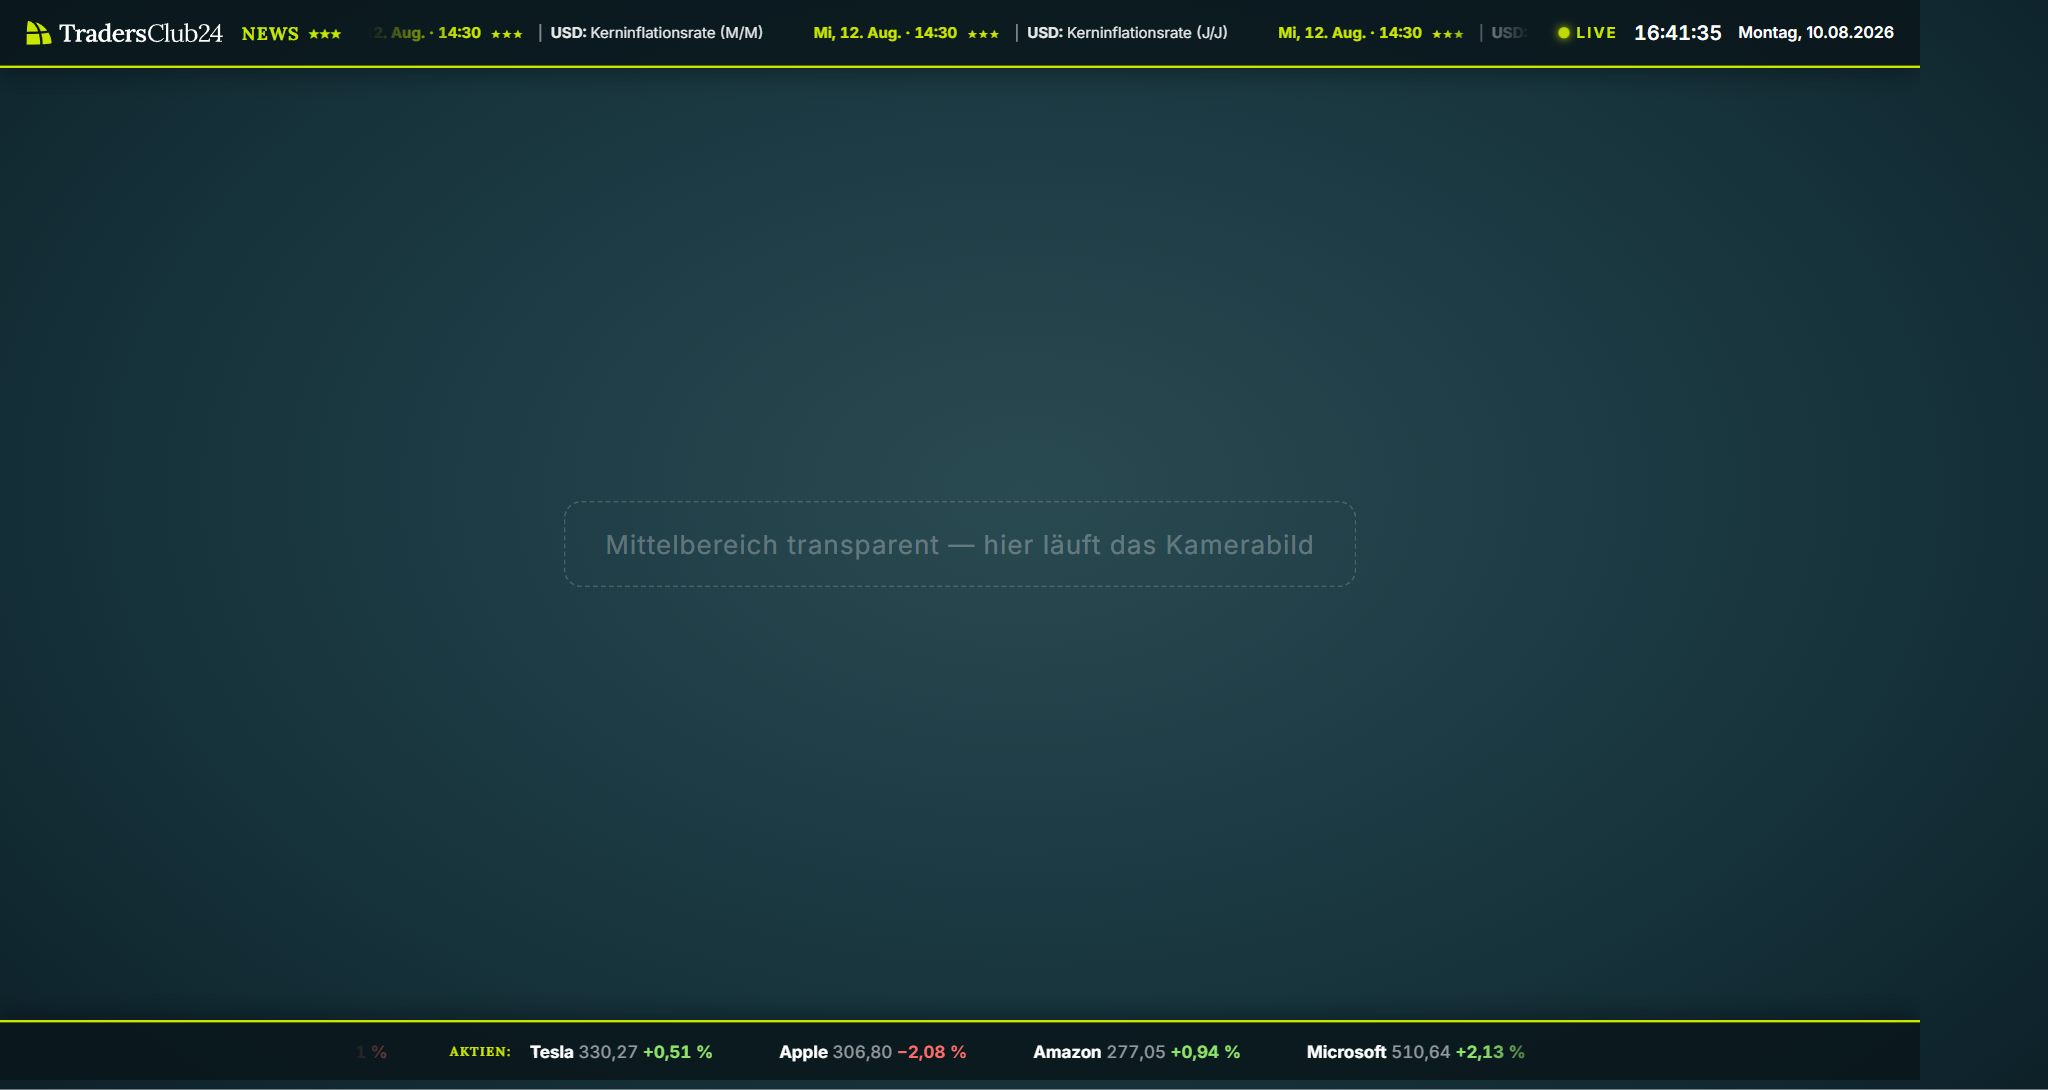
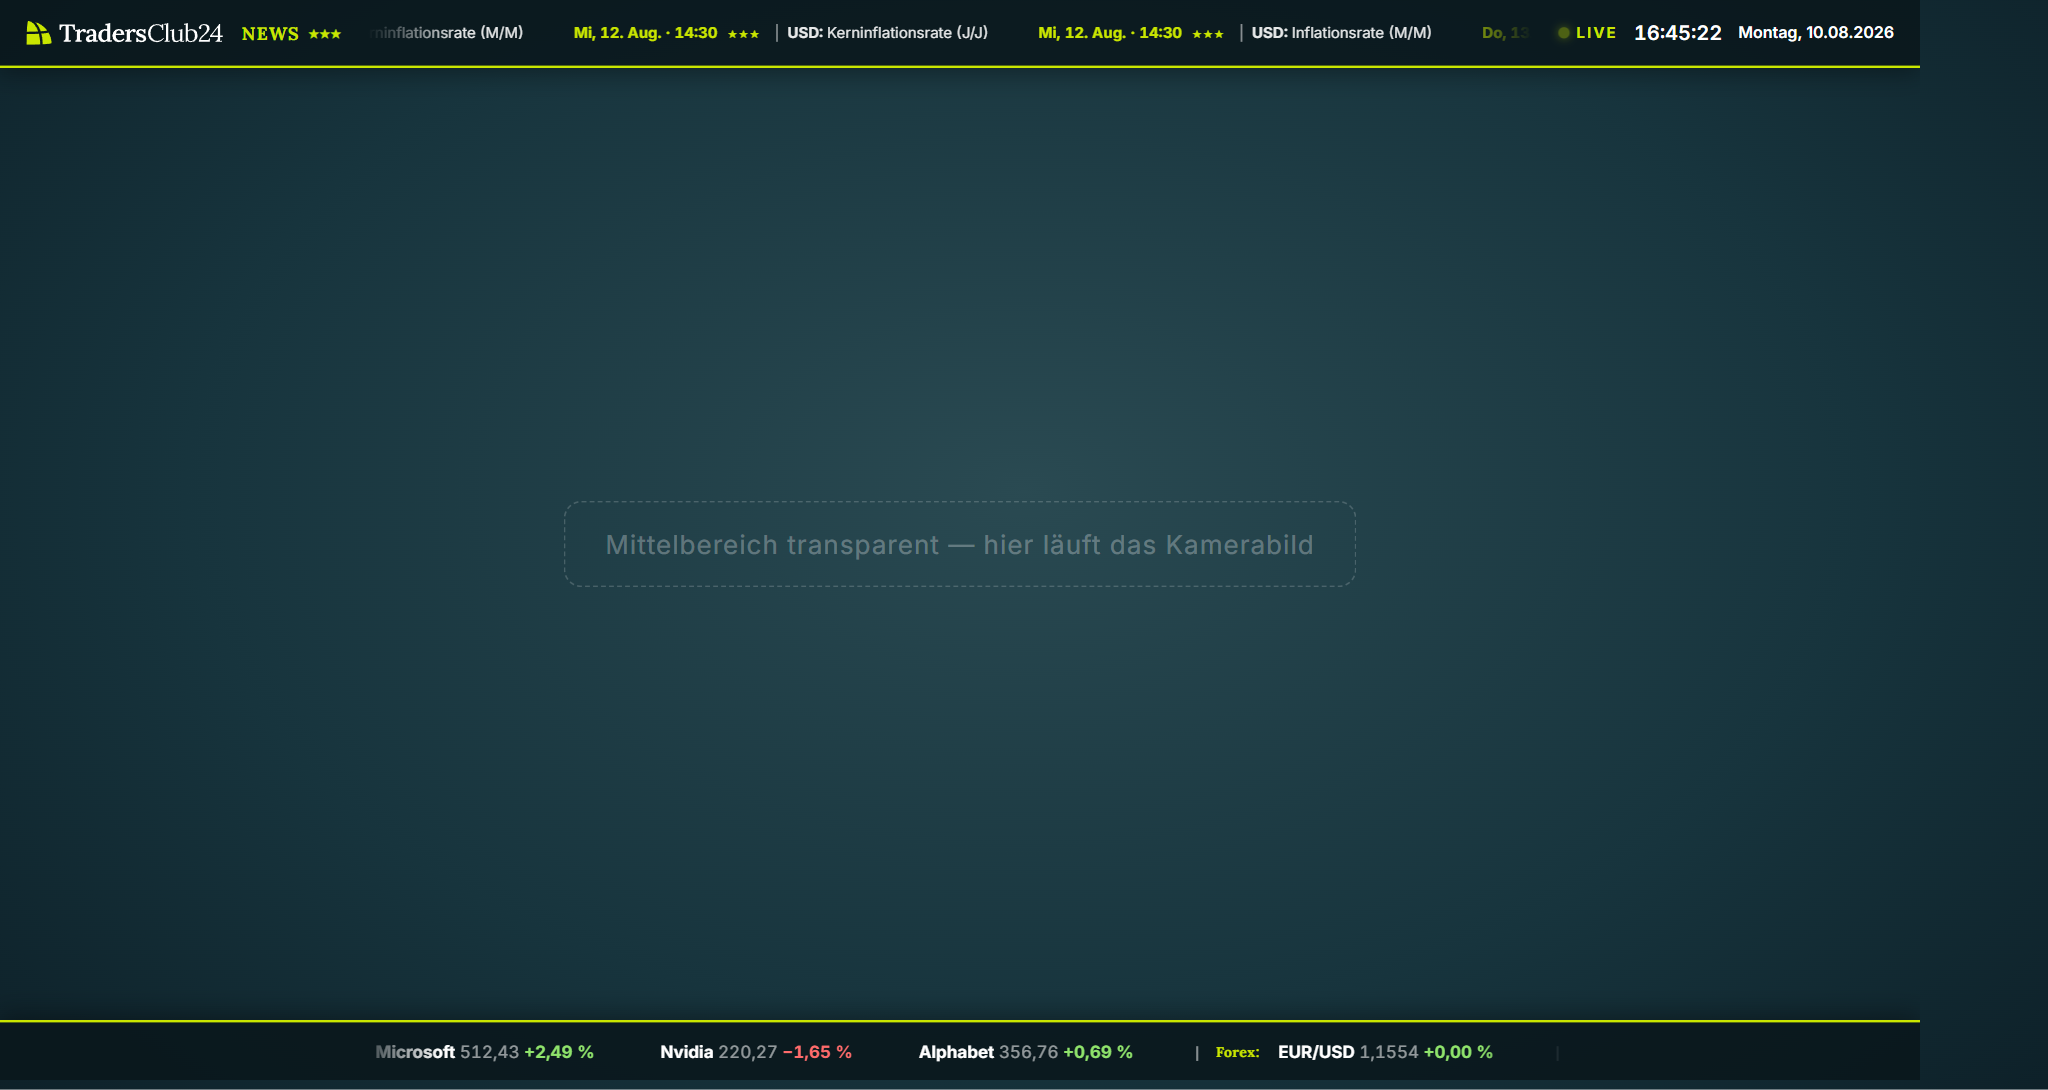
feat: live-overlay v15 — stock groups with pipe separators, equal+faster ticker speed

Changed region(s): [[0.1875, 0.9358, 0.75, 0.9982], [0.1875, 0.0, 0.4688, 0.0624], [0.5, 0.0, 0.6875, 0.0624]]

diff --git a/tc24-live-overlay/live-overlay.html b/tc24-live-overlay/live-overlay.html
@@ -80,9 +80,10 @@
   .marqueefoot .divider{ margin:0 12px 0 30px; }
   .marqueefoot .sym{ font-weight:700; color:var(--white); }
   .marqueefoot .val{ color:var(--muted); }
-  /* Gruppen-Trenner-Label (AKTIEN: / INDIZES: / FOREX: …) vor jeder Kurs-Gruppe */
-  .marqueefoot .grp{ font-family:var(--font-display); font-weight:700; font-size:13px; letter-spacing:.09em;
-    text-transform:uppercase; color:var(--lime); padding:0 12px 0 2px; }
+  /* Gruppen-Trenner-Label (| Aktien: / | Indizes: / | Forex: …) vor jeder Kurs-Gruppe */
+  .marqueefoot .grp{ font-family:var(--font-display); font-weight:700; font-size:14px; letter-spacing:.03em;
+    color:var(--lime); padding:0 12px 0 2px; }
+  .marqueefoot .grp .gpipe{ color:var(--muted); font-weight:400; margin-right:8px; }
   .pos{ color:var(--pos); font-weight:700; }
   .neg{ color:var(--neg); font-weight:700; }
 </style>
@@ -207,7 +208,7 @@ async function loadQuotes(){
     let lastGrp=null;
     const priceHTML=q.map(x=>{
       let pre='';
-      if(x.group && x.group!==lastGrp){ pre='<a class="divider"></a><span class="grp">'+esc(x.group)+':</span>'; lastGrp=x.group; }
+      if(x.group && x.group!==lastGrp){ pre='<a class="divider"></a><span class="grp"><span class="gpipe">|</span> '+esc(x.group)+':</span>'; lastGrp=x.group; }
       const cls=(x.changePct==null)?'val':(x.changePct>=0?'pos':'neg');
       const chg=(x.changePct==null)?'':' <span class="'+cls+'">'+fmtPct(x.changePct)+'</span>';
       const lead=pre?'':'<a class="divider"></a>';   // nach einem Gruppen-Label KEIN zusätzlicher Divider (sonst doppelter Abstand)
@@ -226,8 +227,8 @@ window.addEventListener('load',()=>{
   fitToWidth();
   if(new URLSearchParams(location.search).get('cam')) document.body.classList.add('cam');
   showDate(); showTime();
-  runMarquee(document.getElementById('newsMarquee'),1.1);
-  runMarquee(document.getElementById('priceMarquee'),0.7);
+  runMarquee(document.getElementById('newsMarquee'),1.4);
+  runMarquee(document.getElementById('priceMarquee'),1.4);
   loadNews();   setInterval(loadNews,   6*60*60*1000);
   loadQuotes(); setInterval(loadQuotes, 15*1000);
 });
